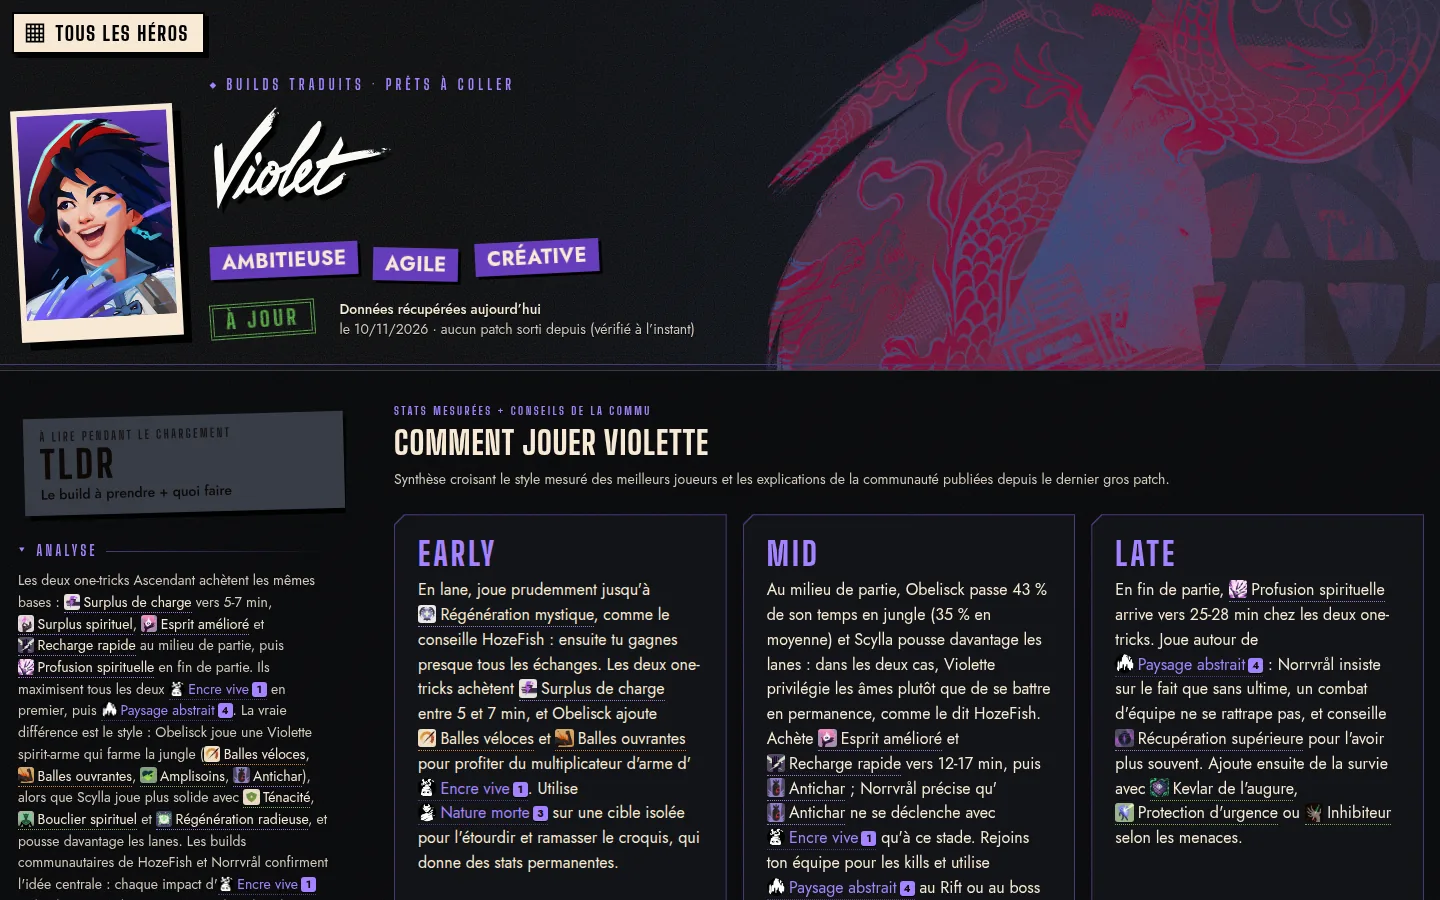
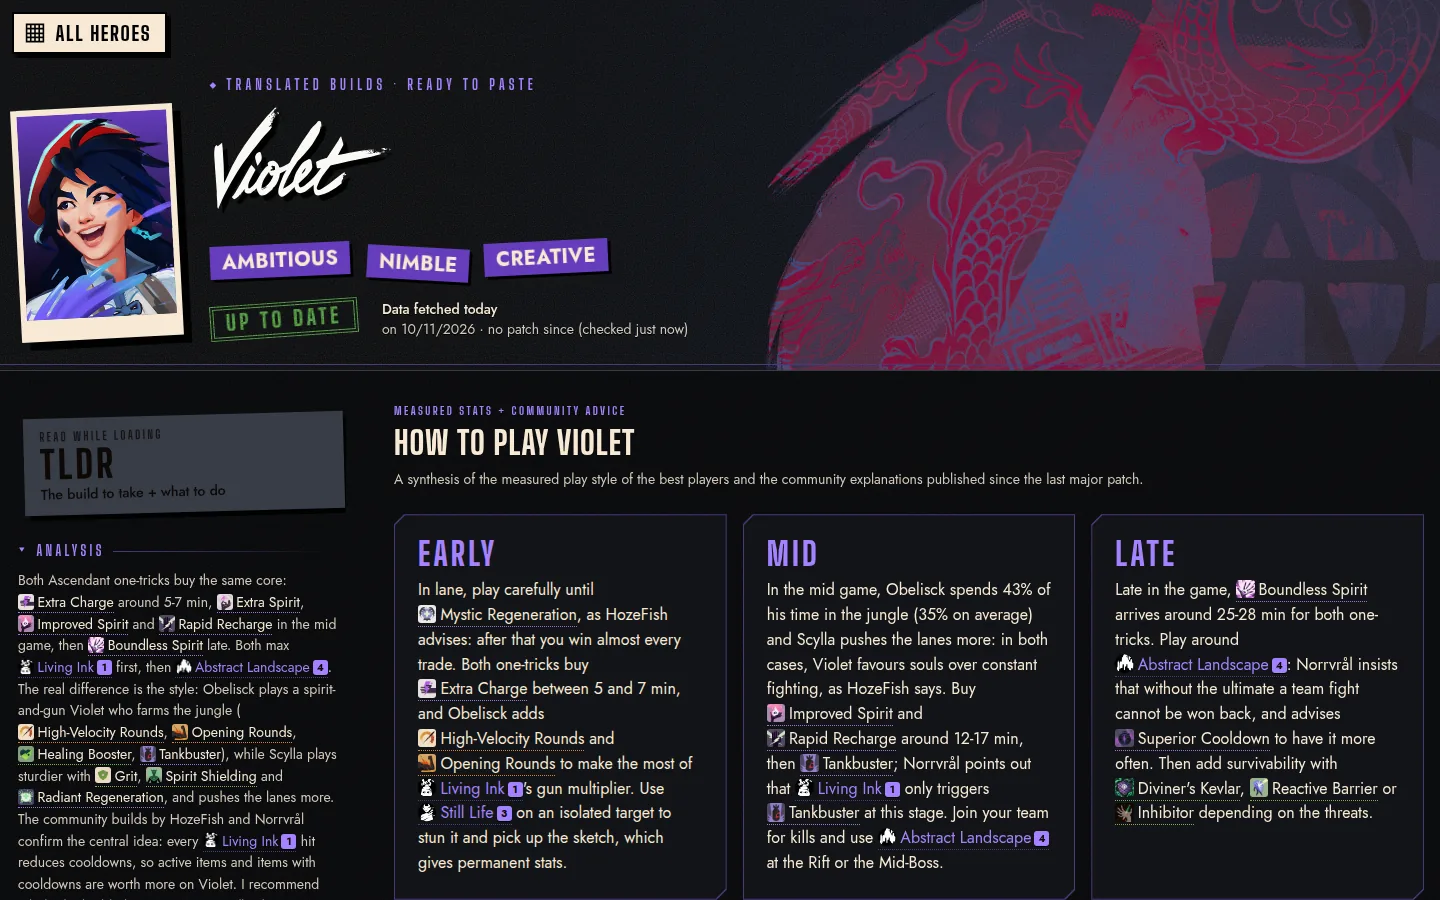
docs: switch the readme and screenshots to English
English screenshots of the home, TLDR, how-to-play and counter views; English request examples (French ones still work); link to the French demo; skill description mentions both languages.

diff --git a/README.md b/README.md
@@ -1,17 +1,19 @@
 # deadlock-build-fr
 
 A [Claude Code](https://claude.com/claude-code) skill that finds the best **Deadlock** builds for a hero, explains
-how to play and counter it, and generates a French web page with build codes you can paste straight into the game.
+how to play and counter it, and generates a web page (English and French) with build codes you can paste straight
+into the game.
 
 [![CI](https://github.com/KentoPAC/deadlock-build-fr/actions/workflows/ci.yml/badge.svg)](https://github.com/KentoPAC/deadlock-build-fr/actions/workflows/ci.yml)
 ![Python 3.14+](https://img.shields.io/badge/python-3.14%2B-blue)
 ![No dependencies](https://img.shields.io/badge/dependencies-none-brightgreen)
 [![License: MIT](https://img.shields.io/badge/license-MIT-lightgrey)](LICENSE)
 
-> Ask Claude *"Trouve-moi les meilleurs builds Mina"* and get a page with a two-minute TLDR, a full guide and
-> one-click build codes for the in-game **"Coller le build"** (Paste build) button.
+> Ask Claude *"Find me the best Mina builds"* and get a page with a two-minute TLDR, a full guide and one-click
+> build codes for the in-game **"Paste build"** button.
 
-**[Live demo](https://kentopac.github.io/deadlock-build-fr/examples/)**: the home page and seven generated hero pages.
+**[Live demo](https://kentopac.github.io/deadlock-build-fr/examples/)**: the home page and seven generated hero pages
+([French version](https://kentopac.github.io/deadlock-build-fr/examples/index.fr.html)).
 
 | Home page | TLDR: the build to take and what to do |
 | --- | --- |
@@ -22,7 +24,8 @@ how to play and counter it, and generates a French web page with build codes you
 ## Examples
 
 [`examples/`](examples/) holds pages generated by the skill, published as the
-[live demo](https://kentopac.github.io/deadlock-build-fr/examples/): the home page and hero pages such as
+[live demo](https://kentopac.github.io/deadlock-build-fr/examples/): the home page and hero pages (English and
+French) such as
 [Mina](https://kentopac.github.io/deadlock-build-fr/examples/search-mina/),
 [Pocket](https://kentopac.github.io/deadlock-build-fr/examples/search-pocket/) or
 [Violette](https://kentopac.github.io/deadlock-build-fr/examples/search-violette/). Build codes in them use author id 0: no personal data.
@@ -47,8 +50,9 @@ sentence keeps track of its sources.
 
 ## Features
 
-- **Build codes for the game.** Builds are translated to French and encoded in the game's clipboard format
+- **Build codes for the game.** Every build gets a code per language, encoded in the game's clipboard format
   (`base64(zstd(protobuf CMsgHeroBuild))`), with category sizes recomputed so translated text is not cut.
+- **English and French.** Every page, analysis and build exists in both languages, with an EN | FR switch.
 - **How to play.** Measured play style (souls per minute, lane / jungle / fight share, K/D/A) against the Phantom+
   average, community meta position (1 to 6), ability guide, power spikes placed on the game's level thresholds.
 - **How to counter.** Matchups normalised against the expected result, late-game counter items measured from
@@ -77,10 +81,12 @@ Talk to Claude Code in the project:
 
 | You say | What happens |
 | --- | --- |
-| *Trouve-moi les meilleurs builds Pocket* | Finds candidates, writes the analysis, opens `builds/search-pocket/index.html` |
-| *Comment contrer Vindicta ?* | Same page, opened on the counter view |
-| *Traduis ce build : deadchaps.gg/builds/123456* | Translates one build and copies its code |
-| *Ouvre la page de tous les héros* | `builds/index.html`: every hero and the state of its page |
+| *Find me the best Pocket builds* | Finds candidates, writes the analysis, opens `builds/search-pocket/index.html` |
+| *How do I counter Vindicta?* | Same page, opened on the counter view |
+| *Translate this build: deadchaps.gg/builds/123456* | Translates one build and copies its code |
+| *Open the all heroes page* | `builds/index.html`: every hero and the state of its page |
+
+Requests work in French too (*"Trouve-moi les meilleurs builds Pocket"*).
 
 The scripts can also be run directly:
 

diff --git a/SKILL.md b/SKILL.md
@@ -1,6 +1,6 @@
 ---
 name: deadlock-build-fr
-description: Find the best Deadlock builds for a hero (high-ranked one-tricks, Mobalytics, community), analyse how to play and counter it (role, measured play style, matchups, abilities, power spikes), and produce a French page with a TLDR and codes to paste in game via "Coller le build"; or translate one build (deadchaps.gg link or id). Use when the user asks for a hero's builds, how to play or counter a hero, to redo / update a hero page, opens the "all heroes" page, gives a build link or id to translate, or pastes a build code copied in game.
+description: Find the best Deadlock builds for a hero (high-ranked one-tricks, Mobalytics, community), analyse how to play and counter it (role, measured play style, matchups, abilities, power spikes), and produce English and French pages with a TLDR and codes to paste in game via "Paste build"; or translate one build (deadchaps.gg link or id). Use when the user asks for a hero's builds, how to play or counter a hero, to redo / update a hero page, opens the "all heroes" page, gives a build link or id to translate, or pastes a build code copied in game.
 ---
 
 # Deadlock builds: find, translate, import in game
